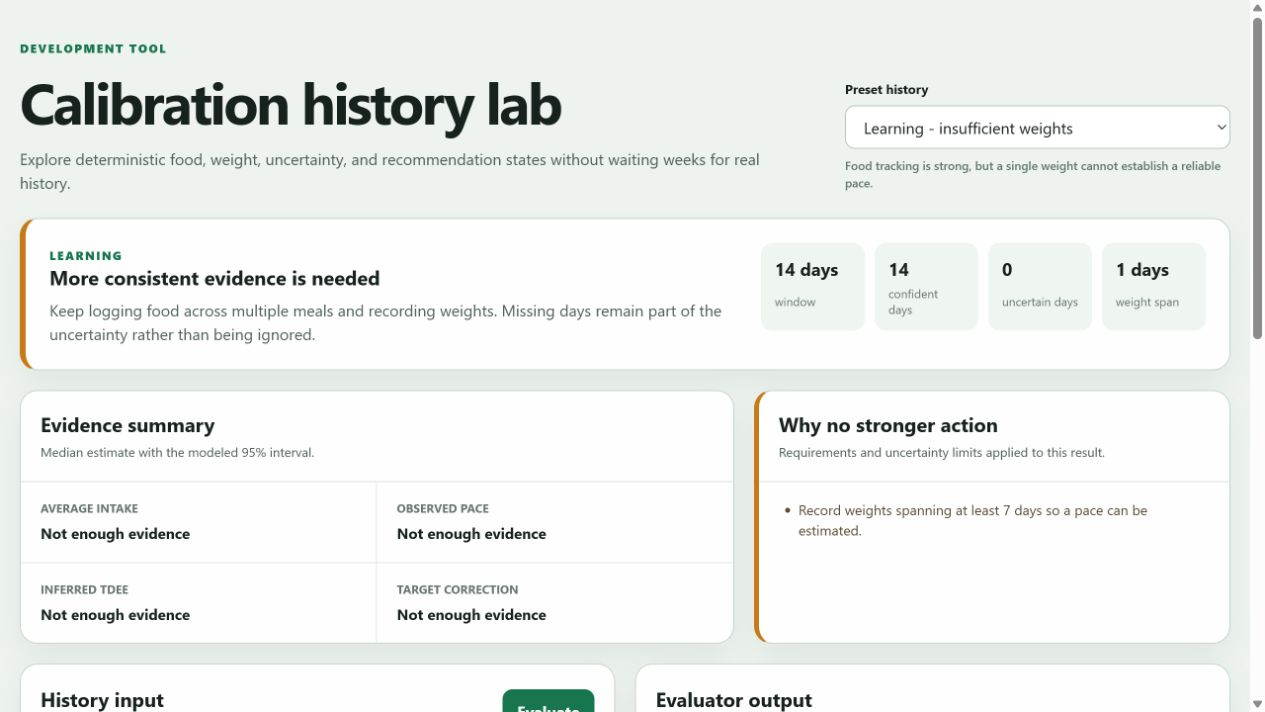
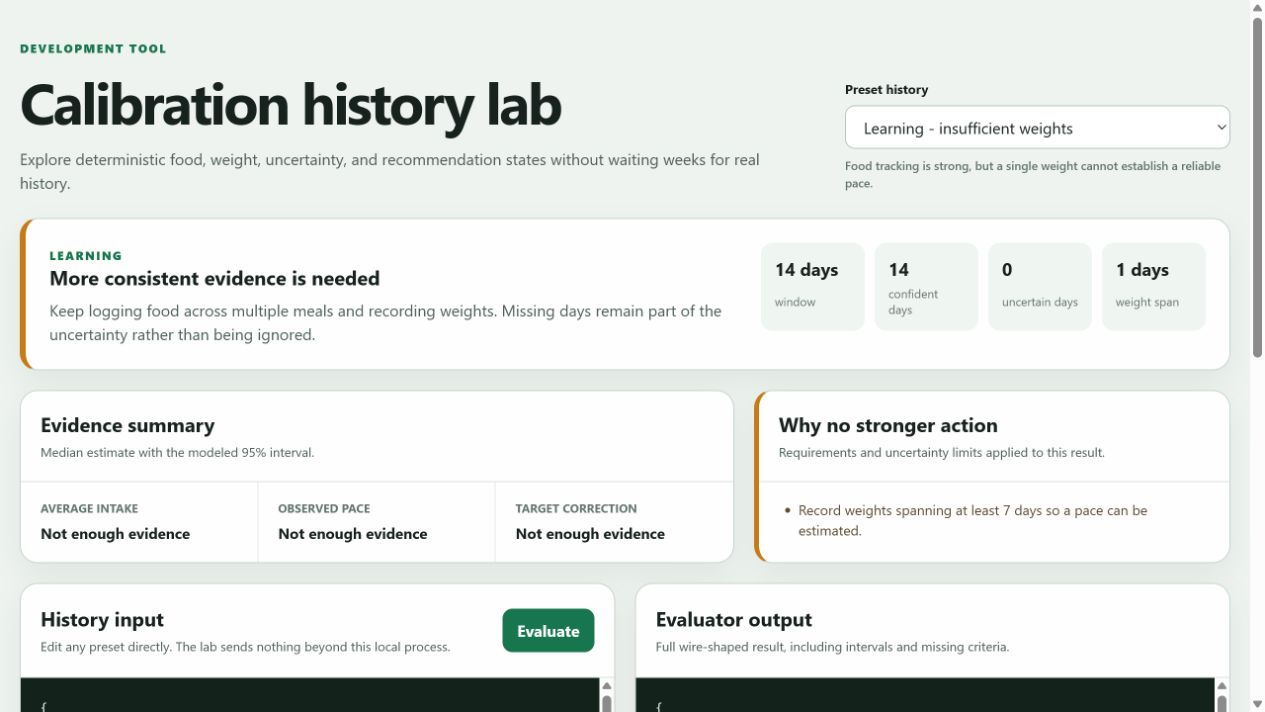
Hide empty calibration lab sections

Changed region(s): [[0.0, 0.7107, 0.9866, 1.0], [0.9866, 0.4635, 1.0, 0.5253]]

diff --git a/tools/calibration-lab/styles.css b/tools/calibration-lab/styles.css
@@ -6,6 +6,7 @@
 }
 
 * { box-sizing: border-box; }
+[hidden] { display: none !important; }
 body { margin: 0; min-width: 320px; }
 button, select, textarea { font: inherit; }
 main { width: min(1500px, calc(100% - 40px)); margin: 0 auto; padding: 36px 0 64px; }
